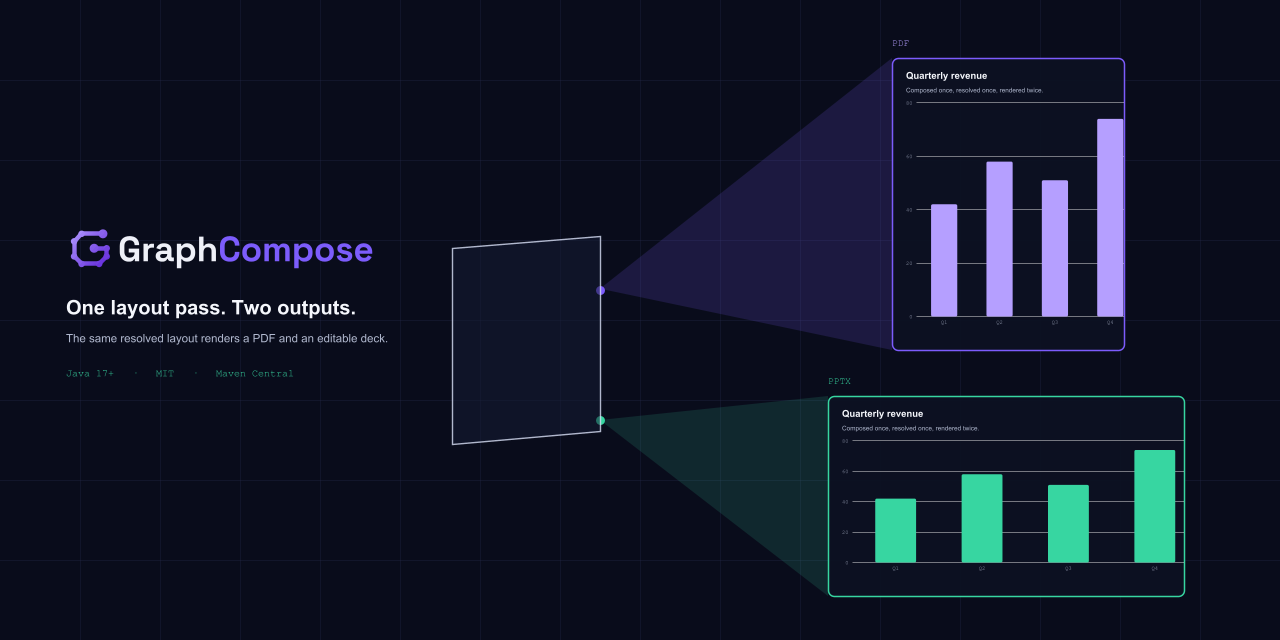
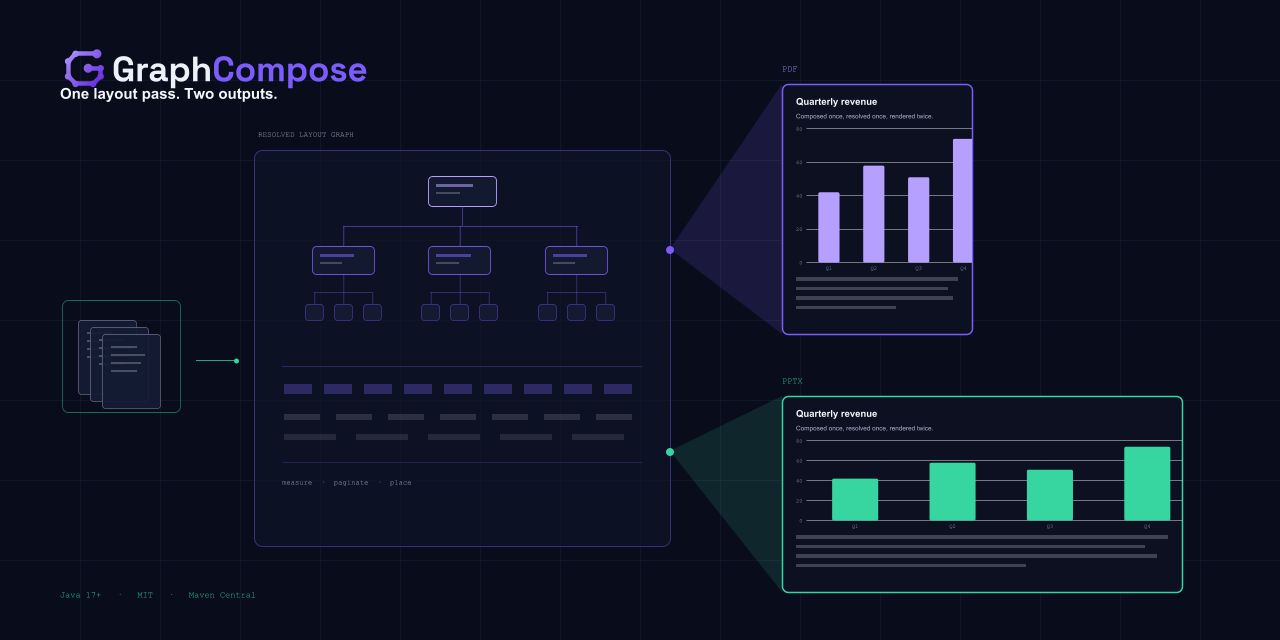
feat(examples): show the resolved graph between the source and the outputs
The card jumped straight from a sheet to two shapes, which left out the
part the name is about. It now reads in three stages: authored documents
on the left, the resolved layout graph in the middle, and the two
backends that consume it on the right.

The middle panel carries a node tree — a document root, its sections and
the leaf fragments each resolves to — over the flat ordered fragment
stream the compiler emits. That stream is what both backends read, and
drawing it is what makes "one layout pass" a statement about the
architecture rather than about the picture.

Two engine contracts learned in passing and noted in the code: a
ShapeContainerNode must carry at least one layer, so an empty leaf box is
a ShapeBuilder; and a paragraph helper that sizes its box against the
page width collapses to nothing inside a narrower parent, which had the
panel's footer rendering at zero width.

diff --git a/examples/src/main/java/com/demcha/examples/flagships/SocialCardExample.java b/examples/src/main/java/com/demcha/examples/flagships/SocialCardExample.java
@@ -86,6 +86,16 @@ public final class SocialCardExample {
     /** Height the title, body line and their spacing consume above the chart. */
     private static final double TEXT_BLOCK = 40;
 
+    /**
+     * Body lines below the chart, as fractions of the content width. Ragged on
+     * purpose — a paragraph that ends mid-line is what makes a block read as
+     * prose rather than as a bar chart lying on its side.
+     */
+    private static final double[] BODY_LINES = {1.00, 0.94, 0.97, 0.62};
+
+    /** Height one body line and its gap consume. */
+    private static final double BODY_LINE_STEP = 9.5;
+
     /** The one document both outputs render. Same text, same series, both shapes. */
     private static final String DOC_TITLE = "Quarterly revenue";
     private static final String DOC_LINE = "Composed once, resolved once, rendered twice.";
@@ -172,29 +182,177 @@ public final class SocialCardExample {
 
     private static DocumentNode scene() {
         List<CanvasChild> layers = new ArrayList<>();
-
         layers.addAll(grid());
 
-        // Left third: the identity block.
-        layers.add(at(logoBlock(), 62, 214));
+        // Header. A social card has to say whose it is; the pipeline says why.
+        layers.add(at(logoBlock(), 56, 34));
         layers.add(at(text("Tagline", "One layout pass. Two outputs.",
-                display(20, ON_DARK), 360), 66, 300));
-        layers.add(at(text("Sub",
-                "The same resolved layout renders a PDF and an editable deck.",
-                body(11.5, ON_DARK_MUTED), 350), 66, 334));
+                display(15, ON_DARK), 300), 60, 88));
         layers.add(at(text("Footer", "Java 17+   ·   MIT   ·   Maven Central",
-                mono(10, MINT), 340), 66, 370));
+                mono(8.6, MINT), 300), 60, 592));
 
-        // Right two thirds: the diagram.
+        // Stage 1 - what you hand the engine.
+        layers.add(at(sourceTray(), 62, 300));
+        layers.add(at(arrow(46), 196, 356));
+
+        // Stage 2 - the resolved graph. The middle is the product.
+        layers.add(at(graphPanel(), 254, 150));
+        layers.add(at(text("GraphLabel", "RESOLVED LAYOUT GRAPH",
+                mono(7.6, ON_DARK_MUTED), 260), 258, 132));
+
+        // Stage 3 - two backends reading that one graph.
         layers.addAll(beams());
-        layers.add(at(sheet(), 452, 236));
-        layers.add(at(outputCard("PdfOut", 232, 292, VIOLET, VIOLET_LIGHT), 892, 58));
-        layers.add(at(outputCard("PptxOut", 356, 200, MINT, MINT), 828, 396));
-        layers.add(at(text("PdfLabel", "PDF", mono(9.5, VIOLET_LIGHT), 60), 892, 40));
-        layers.add(at(text("PptxLabel", "PPTX", mono(9.5, MINT), 60), 828, 378));
+        layers.add(at(outputCard("PdfOut", 190, 250, VIOLET, VIOLET_LIGHT), 782, 84));
+        layers.add(at(outputCard("PptxOut", 400, 196, MINT, MINT), 782, 396));
+        layers.add(at(text("PdfLabel", "PDF", mono(8.6, VIOLET_LIGHT), 60), 782, 66));
+        layers.add(at(text("PptxLabel", "PPTX", mono(8.6, MINT), 60), 782, 378));
 
         return new CanvasLayerNode("SocialCard", CARD_WIDTH, CARD_HEIGHT, layers,
                 ClipPolicy.CLIP_BOUNDS, DocumentInsets.zero(), DocumentInsets.zero());
+    }
+
+    /** Stage 1: a tray of authored documents waiting to be composed. */
+    private static DocumentNode sourceTray() {
+        ShapeContainerBuilder tray = new ShapeContainerBuilder()
+                .name("SourceTray")
+                .roundedRect(118, 112, 6)
+                .fillColor(DocumentColor.rgba(0, 0, 0, 0))
+                .stroke(DocumentStroke.of(MINT.withOpacity(0.45), 0.9));
+        for (int i = 0; i < 3; i++) {
+            tray.position(miniSheet(), 16 + i * 12, 20 + i * 7, LayerAlign.TOP_LEFT);
+        }
+        return tray.build();
+    }
+
+    private static DocumentNode miniSheet() {
+        ShapeContainerBuilder sheet = new ShapeContainerBuilder()
+                .name("MiniSheet")
+                .roundedRect(58, 74, 3)
+                .fillColor(SURFACE.withOpacity(0.92))
+                .stroke(DocumentStroke.of(SHEET_EDGE.withOpacity(0.45), 0.7));
+        for (int i = 0; i < 4; i++) {
+            sheet.position(rect(i == 0 ? 26 : 38 - i * 4, 2.4, ON_DARK.withOpacity(0.24)),
+                    9, 12 + i * 8, LayerAlign.TOP_LEFT);
+        }
+        return sheet.build();
+    }
+
+    /**
+     * A short connector between stages.
+     *
+     * @param width connector length in points
+     * @return the composed connector
+     */
+    private static DocumentNode arrow(double width) {
+        return new ShapeContainerBuilder()
+                .name("Arrow")
+                .rectangle(width, 10)
+                .fillColor(DocumentColor.rgba(0, 0, 0, 0))
+                .position(rect(width - 8, 1.1, MINT.withOpacity(0.75)), 0, 4.5,
+                        LayerAlign.TOP_LEFT)
+                .position(dot(5, MINT), width - 8, 2.5, LayerAlign.TOP_LEFT)
+                .build();
+    }
+
+    /**
+     * Stage 2: the resolved layout graph - the thing the name is about.
+     *
+     * <p>A document root, its sections, and the leaf fragments each section
+     * resolves to, over the flat ordered fragment stream the compiler emits.
+     * Every backend downstream reads this and nothing else, which is why two of
+     * them agree.</p>
+     *
+     * @return the composed panel
+     */
+    private static DocumentNode graphPanel() {
+        double w = 416;
+        double h = 396;
+        ShapeContainerBuilder panel = new ShapeContainerBuilder()
+                .name("GraphPanel")
+                .roundedRect(w, h, 8)
+                .fillColor(DocumentColor.rgba(15, 20, 40, 170))
+                .stroke(DocumentStroke.of(VIOLET.withOpacity(0.42), 1.0));
+
+        panel.position(graphNode(68, 30, VIOLET_LIGHT), w / 2 - 34, 26, LayerAlign.TOP_LEFT);
+        panel.position(rect(1.0, 20, VIOLET.withOpacity(0.5)), w / 2, 56, LayerAlign.TOP_LEFT);
+
+        double[] tier = {0.14, 0.42, 0.70};
+        panel.position(rect(w * 0.56 + 2, 1.0, VIOLET.withOpacity(0.5)),
+                w * tier[0] + 31, 76, LayerAlign.TOP_LEFT);
+        for (double t : tier) {
+            panel.position(rect(1.0, 20, VIOLET.withOpacity(0.5)), w * t + 31, 76,
+                    LayerAlign.TOP_LEFT);
+            panel.position(graphNode(62, 28, VIOLET.withOpacity(0.85)), w * t, 96,
+                    LayerAlign.TOP_LEFT);
+            panel.position(rect(1.0, 18, VIOLET.withOpacity(0.35)), w * t + 31, 124,
+                    LayerAlign.TOP_LEFT);
+            panel.position(rect(58, 1.0, VIOLET.withOpacity(0.35)), w * t + 2, 142,
+                    LayerAlign.TOP_LEFT);
+            for (int leaf = 0; leaf < 3; leaf++) {
+                double lx = w * t + 2 + leaf * 29;
+                panel.position(rect(1.0, 12, VIOLET.withOpacity(0.35)), lx, 142,
+                        LayerAlign.TOP_LEFT);
+                panel.position(leafNode(), lx - 9, 154, LayerAlign.TOP_LEFT);
+            }
+        }
+
+        // The flat, ordered fragment stream the backends actually consume.
+        panel.position(rect(w - 56, 1.0, VIOLET.withOpacity(0.28)), 28, 216,
+                LayerAlign.TOP_LEFT);
+        for (int i = 0; i < 9; i++) {
+            panel.position(rect(28, 10, VIOLET.withOpacity(0.30)), 30 + i * 40, 234,
+                    LayerAlign.TOP_LEFT);
+        }
+        for (int i = 0; i < 7; i++) {
+            panel.position(rect(36, 6, ON_DARK.withOpacity(0.13)), 30 + i * 52, 264,
+                    LayerAlign.TOP_LEFT);
+        }
+        for (int i = 0; i < 5; i++) {
+            panel.position(rect(52, 6, ON_DARK.withOpacity(0.10)), 30 + i * 72, 284,
+                    LayerAlign.TOP_LEFT);
+        }
+        panel.position(rect(w - 56, 1.0, VIOLET.withOpacity(0.22)), 28, 312,
+                LayerAlign.TOP_LEFT);
+        panel.position(textIn("GraphFoot", "measure  ·  paginate  ·  place",
+                mono(7.2, ON_DARK_MUTED), w - 56), 28, 330, LayerAlign.TOP_LEFT);
+        return panel.build();
+    }
+
+    /**
+     * One node box in the tree.
+     *
+     * @param w box width in points
+     * @param h box height in points
+     * @param accent outline colour
+     * @return the composed node
+     */
+    private static DocumentNode graphNode(double w, double h, DocumentColor accent) {
+        return new ShapeContainerBuilder()
+                .name("GraphNode")
+                .roundedRect(w, h, 4)
+                .fillColor(SURFACE.withOpacity(0.85))
+                .stroke(DocumentStroke.of(accent, 0.9))
+                .position(rect(w * 0.55, 3, accent.withOpacity(0.55)), 8, 8,
+                        LayerAlign.TOP_LEFT)
+                .position(rect(w * 0.36, 2.4, ON_DARK.withOpacity(0.22)), 8, 16,
+                        LayerAlign.TOP_LEFT)
+                .build();
+    }
+
+    /**
+     * A leaf fragment box. A plain shape rather than a container: a
+     * {@code ShapeContainerNode} requires at least one layer, and this one holds
+     * nothing.
+     *
+     * @return the composed leaf
+     */
+    private static DocumentNode leafNode() {
+        return new ShapeBuilder()
+                .size(18, 16)
+                .fillColor(SURFACE.withOpacity(0.9))
+                .stroke(DocumentStroke.of(VIOLET.withOpacity(0.5), 0.7))
+                .cornerRadius(DocumentCornerRadius.of(3))
+                .build();
     }
 
     /** Faint measurement grid: this is a layout engine, so the paper has coordinates. */
@@ -221,54 +379,34 @@ public final class SocialCardExample {
     }
 
     /**
-     * The source sheet, drawn as a plane in three-quarter view with a folded
-     * corner — a document before anyone has decided what it will be rendered to.
-     */
-    private static DocumentNode sheet() {
-        // PathBuilder coordinates are fractions of the declared box, with y
-        // running bottom-up — the same convention BookTemplateExample uses.
-        return new PathBuilder()
-                .name("SourceSheet")
-                .size(148, 208)
-                .moveTo(0.00, 0.94)
-                .lineTo(1.00, 1.00)
-                .lineTo(1.00, 0.06)
-                .lineTo(0.00, 0.00)
-                .closePath()
-                .fillColor(SURFACE.withOpacity(0.55))
-                .stroke(DocumentStroke.of(SHEET_EDGE.withOpacity(0.85), 1.4))
-                .build();
-    }
-
-    /**
-     * The two beams. Flat translucent fills rather than gradients — the paint
+     * The two wedges leaving the graph panel. Flat translucent fills: the paint
      * surface exposes solid colours, and a flat wedge reads cleaner at the size
      * a social card is actually viewed.
+     *
+     * @return the composed wedges and their origin dots
      */
     private static List<CanvasChild> beams() {
         List<CanvasChild> out = new ArrayList<>();
-        // Both wedges start on the sheet's right edge, so the eye follows one
-        // document splitting rather than two unrelated shapes being lit.
         out.add(at(new PathBuilder()
                 .name("BeamPdf")
-                .size(292, 292)
-                .moveTo(0.00, 0.21)
+                .size(112, 250)
+                .moveTo(0.00, 0.34)
                 .lineTo(1.00, 1.00)
                 .lineTo(1.00, 0.00)
                 .closePath()
-                .fillColor(VIOLET.withOpacity(0.16))
-                .build(), 600, 58));
+                .fillColor(VIOLET.withOpacity(0.15))
+                .build(), 670, 84));
         out.add(at(new PathBuilder()
                 .name("BeamPptx")
-                .size(228, 200)
-                .moveTo(0.00, 0.88)
+                .size(112, 196)
+                .moveTo(0.00, 0.72)
                 .lineTo(1.00, 1.00)
                 .lineTo(1.00, 0.00)
                 .closePath()
-                .fillColor(MINT.withOpacity(0.14))
-                .build(), 600, 396));
-        out.add(at(dot(9, VIOLET), 596, 286));
-        out.add(at(dot(9, MINT), 596, 416));
+                .fillColor(MINT.withOpacity(0.13))
+                .build(), 670, 396));
+        out.add(at(dot(8, VIOLET), 666, 246));
+        out.add(at(dot(8, MINT), 666, 448));
         return out;
     }
 
@@ -289,7 +427,8 @@ public final class SocialCardExample {
                 .roundedRect(width, height, 6)
                 .fillColor(DocumentColor.rgba(12, 16, 34, 236))
                 .stroke(DocumentStroke.of(outline, 1.5))
-                .position(documentBody(accent, height - 2 * CARD_PAD - TEXT_BLOCK),
+                .position(documentBody(accent, width - 2 * CARD_PAD,
+                        height - 2 * CARD_PAD - TEXT_BLOCK - proseHeight()),
                         CARD_PAD, CARD_PAD, LayerAlign.TOP_LEFT)
                 .build();
     }
@@ -301,10 +440,12 @@ public final class SocialCardExample {
      * document without either being cropped.
      *
      * @param accent series colour for the chart
+     * @param width content width, in points
      * @param chartHeight height available to the chart, in points
      * @return the composed body
      */
-    private static DocumentNode documentBody(DocumentColor accent, double chartHeight) {
+    private static DocumentNode documentBody(DocumentColor accent, double width,
+                                            double chartHeight) {
         return new SectionBuilder()
                 .spacing(7)
                 .padding(DocumentInsets.zero())
@@ -315,7 +456,39 @@ public final class SocialCardExample {
                         .textStyle(body(6.4, ON_DARK_MUTED))
                         .margin(DocumentInsets.zero()))
                 .chart(revenueChart(chartHeight), chartStyle(accent))
+                .add(prose(width))
                 .build();
+    }
+
+    /**
+     * The paragraph block under the chart: flat bars standing in for body text.
+     *
+     * <p>Real text at this size would be unreadable on a social card and would
+     * invite the viewer to try; bars say "prose continues here" and stop.</p>
+     *
+     * @param width content width, in points
+     * @return the composed block
+     */
+    private static DocumentNode prose(double width) {
+        ShapeContainerBuilder block = new ShapeContainerBuilder()
+                .name("Prose")
+                .rectangle(width, proseHeight())
+                .fillColor(DocumentColor.rgba(0, 0, 0, 0));
+        for (int i = 0; i < BODY_LINES.length; i++) {
+            block.position(rect(width * BODY_LINES[i], 3.4, ON_DARK.withOpacity(0.22)),
+                    0, i * BODY_LINE_STEP, LayerAlign.TOP_LEFT);
+        }
+        return block.build();
+    }
+
+    /**
+     * Height the prose block occupies, including the gap that separates it from
+     * the chart above.
+     *
+     * @return height in points
+     */
+    private static double proseHeight() {
+        return BODY_LINES.length * BODY_LINE_STEP;
     }
 
     /**
@@ -357,6 +530,30 @@ public final class SocialCardExample {
 
     private static DocumentNode dot(double diameter, DocumentColor fill) {
         return new EllipseBuilder().circle(diameter).fillColor(fill).build();
+    }
+
+    /**
+     * A paragraph laid out inside a container rather than on the page canvas.
+     *
+     * <p>{@link #text} sizes its box by subtracting from {@link #CARD_WIDTH},
+     * which collapses to nothing inside a narrower parent — the panel footer
+     * silently rendered at zero width until this existed.</p>
+     *
+     * @param name node name
+     * @param value the text
+     * @param style text style
+     * @param available width available inside the parent, in points
+     * @return the composed paragraph
+     */
+    private static DocumentNode textIn(String name, String value, DocumentTextStyle style,
+                                       double available) {
+        return new ParagraphBuilder()
+                .name(name)
+                .text(value)
+                .textStyle(style)
+                .align(TextAlign.LEFT)
+                .margin(DocumentInsets.zero())
+                .build();
     }
 
     private static DocumentNode text(String name, String value, DocumentTextStyle style,
